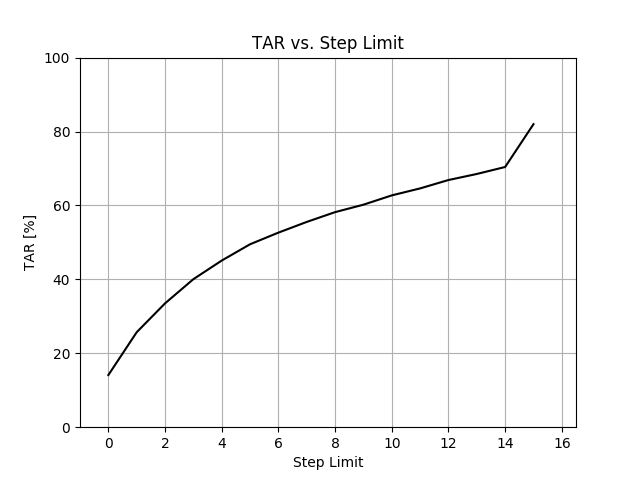
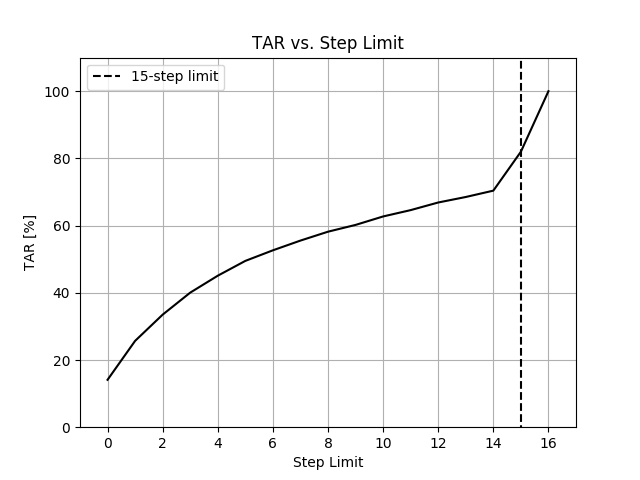
Edit figure, edit to way work was referened in sec2

diff --git a/paper.tex b/paper.tex
@@ -33,9 +33,6 @@
 
 \newcommand{\todo}[1]{\textcolor{red}{[#1]}}
 
-
-
-
 \begin{document}
 
 \title{Active Object Search with a Mobile Device for the Visually Impaired} 
@@ -93,13 +90,13 @@ Section~\ref{sec:previous-work} discusses other relevant work done in this field
 
 \noindent Assistive vision and guidance for the VI is an active and diverse field of study. In recent years, the increase in mobile processing power and computer vision improvements have led to researchers investigating using a cellphone camera to augment or enhance a user's vision and help them find objects or another point of interest. Earlier attempts at the problem involved placing special markers or barcodes, encoded with information about an object or the area, around an environment, which the user then scans with a cellphone or similar mobile device~\cite{gude2013blind,iannizzotto2005badge3d,manduchi2012mobile}. This device then uses some feedback mode, e.g.\ Braille and sound, to guide the user towards the target. %The major drawbacks to this approach is the significant upfront effort required to augment entire areas with markers to a point where the system will be useful to a VI user. Furthermore, these passive systems rely on the user scanning the marker in the first place; something that can be made more complicated with markers degrading over time, changing ambient lighting, different viewing angles and marker occlusion. 
 
-Another approach is to discard tags completely and rely on computer vision to perform the object detection, something that has become more plausible with recent improvements to feature detectors and deep networks~\cite{huang2017speed,redmon2016you}. The system described~\cite{schauerte2012assistive} uses a combination of SIFT and SURF to detect known objects when they are in the camera's view and guide the user to them using sonified guidance instructions. This system is more flexible than the tag-based ones, but have the same drawback of being passive and rely on chance for the user to place the object within the camera's view in the first place. The paper also does not report on any performance metrics. In~\cite{bigham2010vizwiz}, the authors discuss their VizWiz system that offloads the object recognition tasks to an Amazon Mechanical Turk worker that then provides feedback on where the object of interest is located relative to the user. The VizWiz has the advantage of being fairly robust and is able to classify a great deal of objects with little effort from the user and can provide natural, human-generated and curated directions. However, this approach does not address the issue of enhancing user independence, since the user is now beholden to an online worker instead of a relative, friend or bystander. Furthermore, a good internet connection is required on the device, perhaps limiting use in some poor-reception areas.
+Another approach is to discard tags completely and rely on computer vision to perform the object detection, something that has become more plausible with recent improvements to feature detectors and deep networks~\cite{huang2017speed,redmon2016you}. SIFT and SURF-based object detectors have also been used to detect known objects when they are in the camera's view and guide the user to them using sonified guidance instructions~\cite{schauerte2012assistive}. This system is more flexible than the tag-based ones, but have the same drawback of being passive and rely on chance for the user to place the object within the camera's view in the first place. The paper also does not report on any performance metrics. The VizWize system~\cite{bigham2010vizwiz} offloads the object recognition tasks to an Amazon Mechanical Turk worker that then provides feedback on where the object of interest is located relative to the user. The VizWiz has the advantage of being fairly robust and is able to classify a great deal of objects with little effort from the user and can provide natural, human-generated and curated directions. However, this approach does not address the issue of enhancing user independence, since the user is now beholden to an online worker instead of a relative, friend or bystander. Furthermore, a good internet connection is required on the device, perhaps limiting use in some poor-reception areas.
 
 Researchers implemented active search and perception~\cite{Bajcsy2017} strategies in robots and image classifiers in an attempt to optimise their classification and planning tasks by exploiting the structured nature of human object placements. 
 
-In~\cite{caicedo2015active,gonzalez2015active}, the authors implemented an active search strategy for classifying objects within cluttered images. Their approaches use different methods, but both involve using a model to generate windows of interest to submit to a classifier for classification. The size and locations of the windows within the image are generated using the spatial relationship between objects, taken from the SUNCG and PASCAL datasets, and are iteratively changed based on the output from the respective models. The advantage of their approaches over their contemporaries is that far fewer windows are generated and submitted to the classifier, resulting in lower object classification times. They also report comparable accuracy when compared to their contemporaries. 
+Two research teams have recently implemented an active object search strategy into their image classifiers~\cite{caicedo2015active,gonzalez2015active}. Their approaches use different methods, but both involve using a model to generate windows of interest to submit to a classifier for classification. The size and locations of the windows within the image are generated using the spatial relationship between objects, taken from the SUNCG and PASCAL datasets, and are iteratively changed based on the output from the respective models. The advantage of their approaches over their contemporaries is that far fewer windows are generated and submitted to the classifier, resulting in lower object classification times. They also report comparable accuracy compared to their counterparts. 
 
-Similarly, roboticists have moved to incorporate similar strategies on robotic platforms to improve autonomous object search, manipulation and localisation tasks. The authors in~\cite{dogar2014object} developed a planning algorithm that allows a robotic manipulator to select an object to move that optimally executes an object search or exploration task in a cluttered environment. In~\cite{aydemir2011search}, the authors implemented an MDP that generates the optimal search strategy to find an object in a room over a belief state of object positions and configurations. However, the authors trained their MDP using a custom object-placement and configuration probabilities and have shown that the results are sensitive to changes within this distribution. 
+Similarly, roboticists have moved to incorporate similar strategies on robotic platforms to improve autonomous object search, manipulation and localisation tasks. Researchers have developed a planning algorithm that allows a robotic manipulator to select an object to move that optimally executes an object search or exploration task in a cluttered environment~\cite{dogar2014object}. Another team implemented an MDP that generates the optimal search strategy to find an object in a room over a belief state of object positions and configurations~\cite{aydemir2011search}. However, the authors trained their MDP using a custom object-placement and configuration probabilities and have shown that the results are sensitive to changes within this distribution. 
 
 In all, much research has been conducted on object recognition and guidance towards an object once detected, as well as active vision within image classifiers and robotic systems. However, work on active object search and guidance with a human is harder to come by. In this work we attempt to implement an active vision guidance system with a human in the loop~\cite{bellotto2013,lock2017portable} that can guide a user towards an out-of-view target object by using prior knowledge of the spatial distribution of objects within an indoor environment and the history of past object observations made during the search. With this, we hope to make the searching process less random and move towards a more natural and efficient object searching process to the benefit of the VI\@.  
 
@@ -245,10 +242,10 @@ We set the model to track a maximum of of 11 (inclusive) steps to the target, wi
 
 The lack of absolute spatial information in the OpenImage dataset generates ambiguities which makes it hard for the model to converge to a single, optimal solution. We therefore could not use the popular value iteration algorithm~\cite{bellman1957markovian} and opted for the state-action-reward-state-action (SARSA) algorithm~\cite{rummery1994line} instead. SARSA is an on-policy algorithm that allows us to control the level of exploration vs.\ exploitation that makes it easier to find a solution, but this solution is not guaranteed to be optimal. 
 
-The model is trained until it converges to the optimal policy, or for a total of approximately 17 million episodes. The parameter, $\alpha$, that controls the exploration vs.\ exploitation behaviour during training maximises exploration when it is set to $1.0$ and exploitation when it is $0.0$. We set $\alpha$ to a function that starts at a high exploration value and exponentially changes it behaviour to exploitation as it becomes more trained. $\alpha$ is given by 
+The model is trained until it converges to the optimal policy, or for a total of approximately 17 million episodes. The parameter, $\alpha$, that controls the exploration vs.\ exploitation behaviour during training maximises exploration when it is set to $1$ and exploitation when it is $0$. We set $\alpha$ to a function that starts at a high exploration value and exponentially changes it behaviour to exploitation as it becomes more trained. $\alpha$ is given by 
 
 \begin{equation}
-  \alpha = \exp\Big(\frac{-i}{10n_{states}}\Big) - 0.001,
+  \alpha = \exp\Big(\frac{-i}{10s_{total}}\Big) - 0.001,
 \end{equation}
 where $i$ is the episode index.  $\gamma$ is set to 0.95 to prioritise long-term reward. 
 
@@ -270,7 +267,7 @@ By recording the previous positions and waypoint locations the app generated, it
 
 The QR code scanner requires raw image data. To avoid scanning multiple QR codes and using excess processing power by scanning large images, we only used the centre part of the screen to scan for a barcode. This scanner area is $300\times300$ pixels and scans for barcodes without causing any frame-rate drops.  
 
-The app was developed on and experimented with an Asus ZenPhone AR\footnote{asus.com/uk/Phone/ZenFone-AR-ZS571KL/} running Android version 7.0 with the ARCore\footnote{https://developers.google.com/ar/} SDK enabled. No hardware or software modifications were required.
+The app was developed on and experimented with an Asus ZenPhone AR\todo{No footers}\footnote{asus.com/uk/Phone/ZenFone-AR-ZS571KL/} running Android version 7.0 with the ARCore\footnote{https://developers.google.com/ar/} SDK enabled. No hardware or software modifications were required.
 
 \section{\uppercase{Experiments}}\label{sec:experiments}
 
@@ -334,7 +331,7 @@ The participants were left to repeat this process until we recorded 10 searches 
 
 \subsubsection{Target Acquisition Rate}
 
-\noindent The TAR is a measure of how successful the system was at directing a participant to the target object within the 15-step limit we set and is simply calculated as a proportion of the number completed searches vs.\ the total number of searches. Please note, however, that this plot is dependant on the step-limit we selected and should not be taken as an absolute measure of performance, but is rather presented to provide context to the other results we present. Figure~\ref{fig:tar-steps} shows the TAR as a function of the step-limit and it shows that there is a gradual increase in the TAR as the step limit increases, but tapers off at higher step-limits. \uline{The angled tail at the 15-step limit is interesting to note, however. WHY}
+\noindent The TAR is a measure of how successful the system was at directing a participant to the target object within the 15-step limit we set and is simply calculated as a proportion of the number completed searches vs.\ the total number of searches. Please note, however, that this plot is dependant on the step-limit we selected and should not be taken as an absolute measure of performance, but is rather presented to provide context to the other results we present. Figure~\ref{fig:tar-steps} shows the TAR as a function of the step-limit and it shows that there is a gradual increase in the TAR as the step limit increases, but tapers off at higher step-limits. The angled tail at the 15-step limit is interesting to note, however. \todo{WHY}
 
 \begin{figure}
   \centering
@@ -394,7 +391,7 @@ As expected, the number of steps the simulation required on average to find the 
 
 In comparison to the VizWiz system~\cite{bigham2010vizwiz} (mean 92s, standard deviation 37.7s), our results look very reasonable. However, these results may greatly change when we test the system with VI participants like they did in~\cite{bigham2010vizwiz}.
 
-\uline{COMPARE RESULTS FROM ROBOTS? APPROX 100s FOR PLANNING AND EXECUTION}
+\todo{COMPARE RESULTS FROM ROBOTS? APPROX 100s FOR PLANNING AND EXECUTION}
 
 \section{\uppercase{Conclusions}}\label{sec:conclusion}
 
@@ -404,6 +401,7 @@ The next steps to this project will involve using the data recorded here to impr
 
 % \clearpage
 \bibliographystyle{apalike}
-\bibliography{bib}
+{\small
+\bibliography{bib}}
 
 \end{document}
